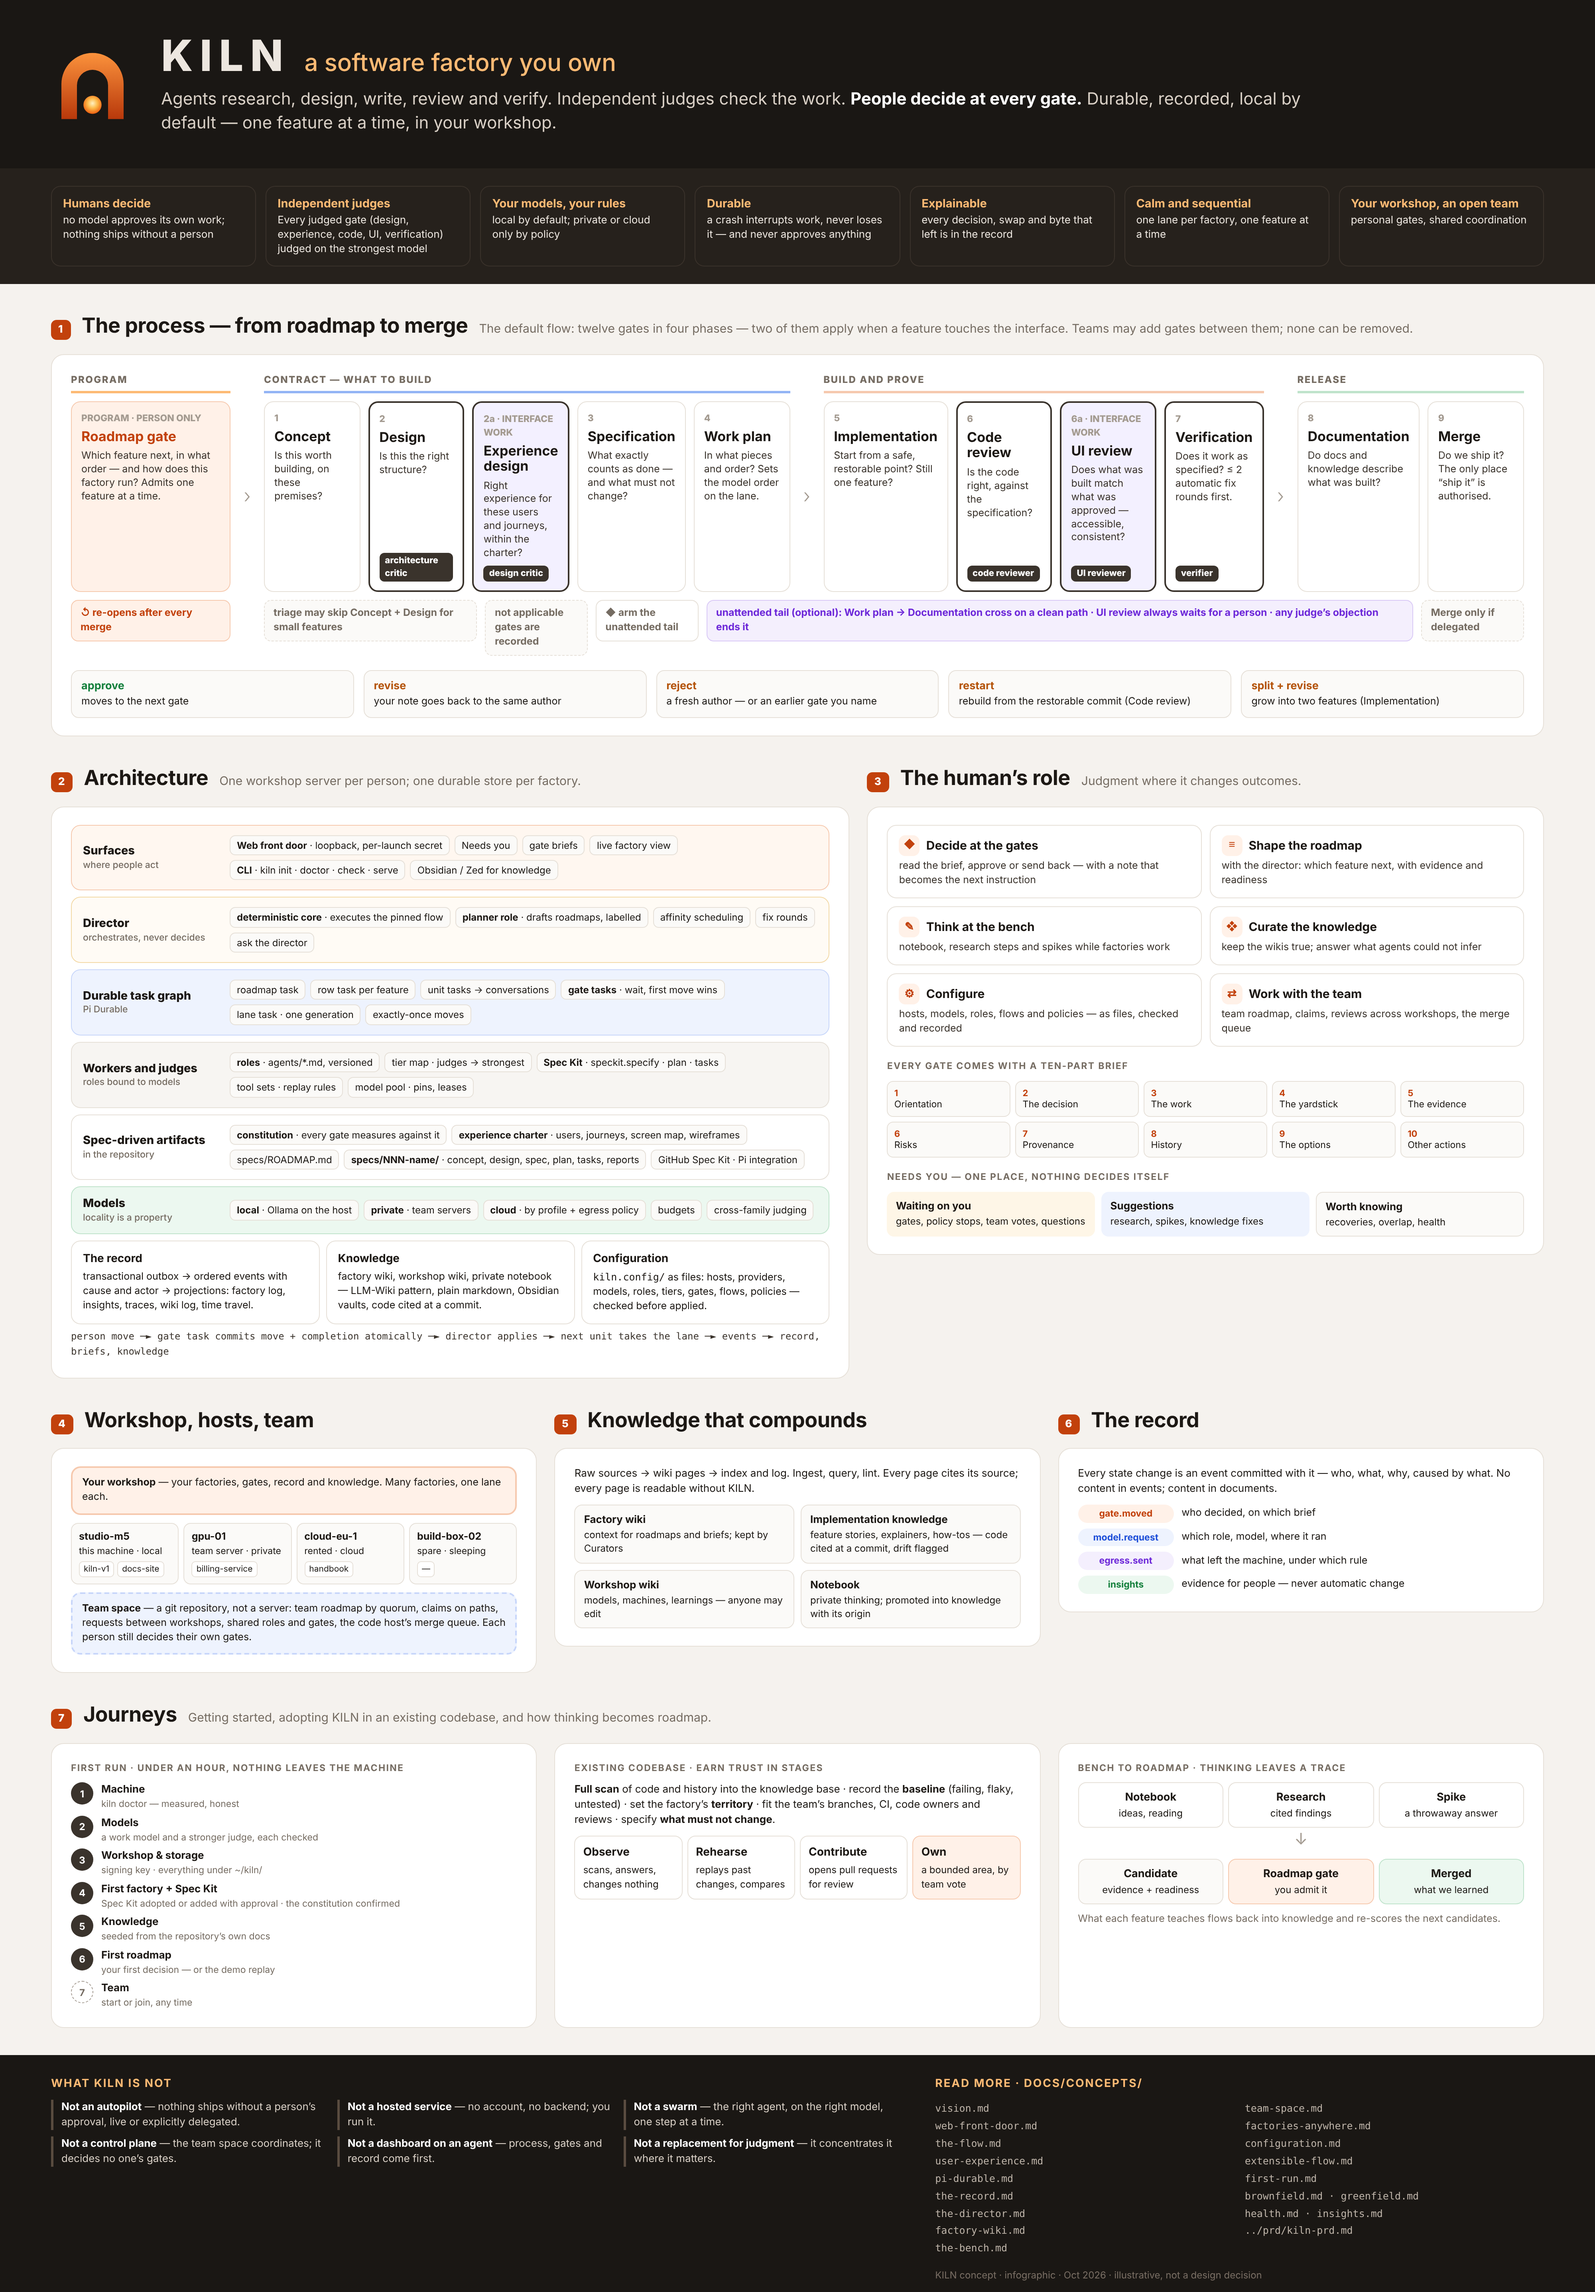
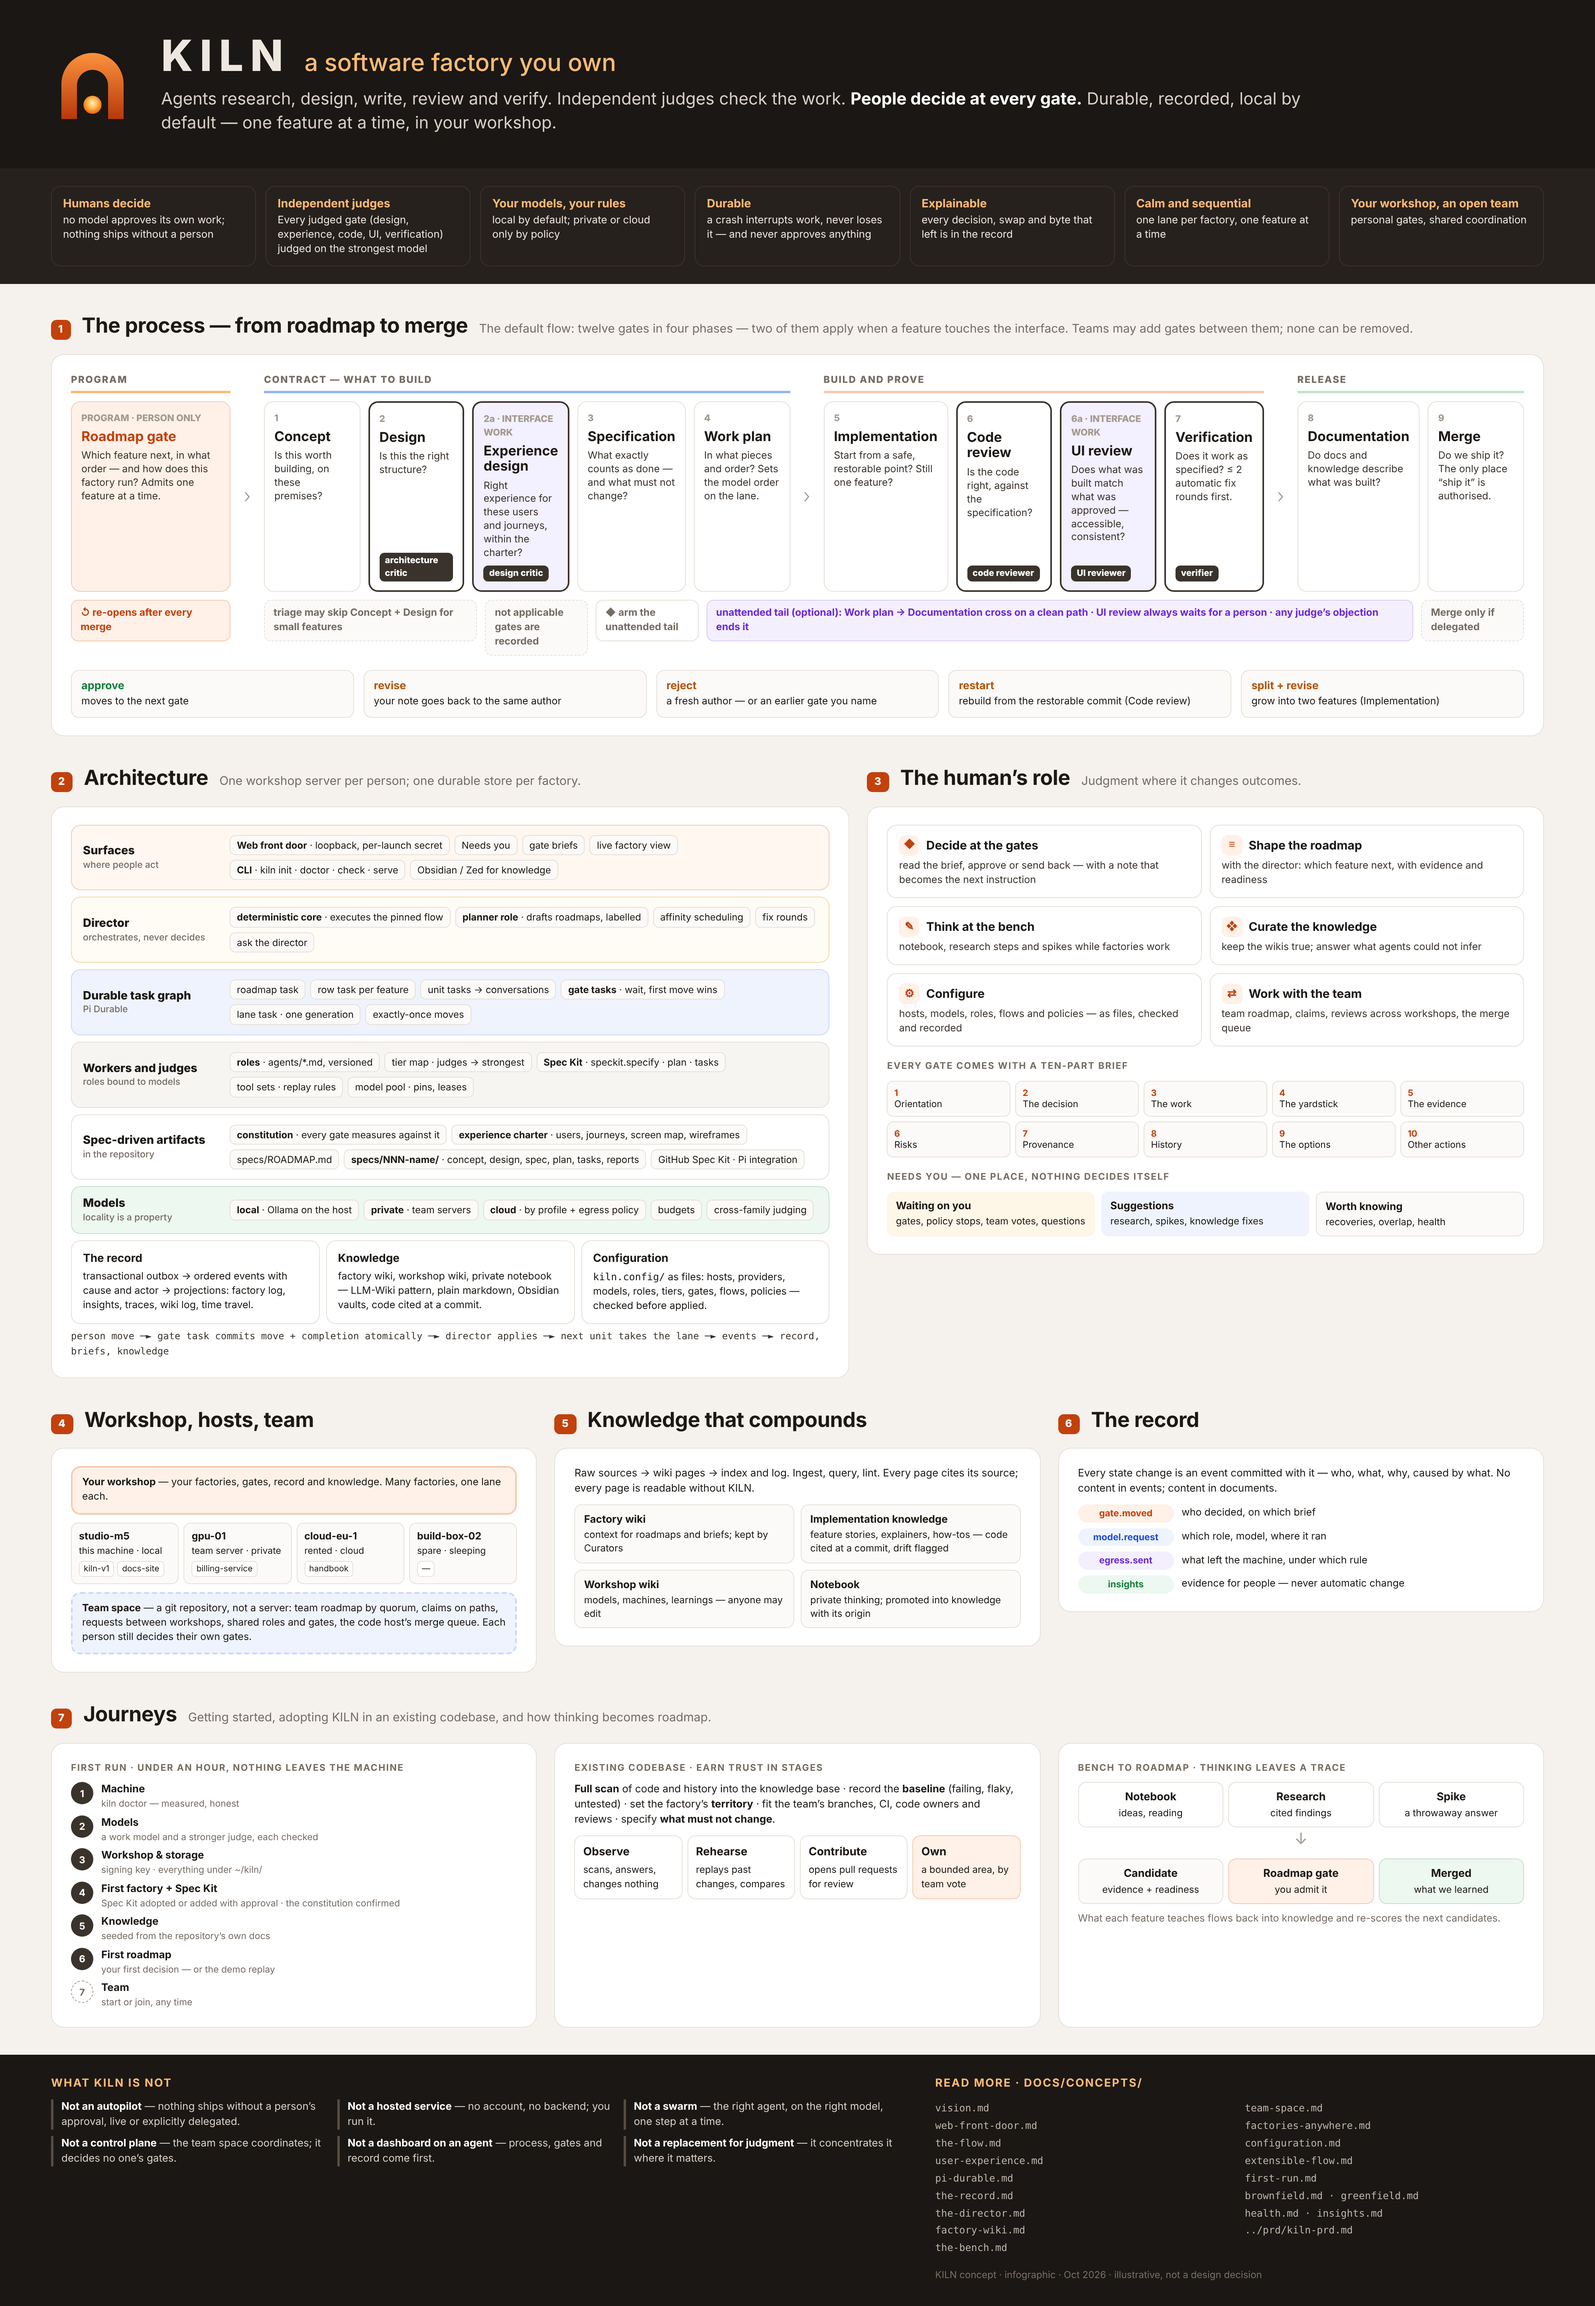
docs: re-export the at-a-glance poster at its full height
Claude-Session: https://claude.ai/code/session_01SEMZrA5RguzPuZJa4EMxUB

diff --git a/docs/concepts/infographic/README.md b/docs/concepts/infographic/README.md
@@ -10,11 +10,11 @@ existing codebase, bench to roadmap.
 
 Illustrative, not a design decision; the concept docs in `../` govern where they differ.
 
-Regenerate (4000 × 5746 px):
+Regenerate (4000 × 5782 px):
 
 ```sh
 cd src && "/Applications/Google Chrome.app/Contents/MacOS/Google Chrome" --headless=new --disable-gpu --hide-scrollbars \
-  --force-device-scale-factor=2 --window-size=2000,2873 --screenshot=../kiln-at-a-glance.png "file://$PWD/kiln-at-a-glance.html"
+  --force-device-scale-factor=2 --window-size=2000,2891 --screenshot=../kiln-at-a-glance.png "file://$PWD/kiln-at-a-glance.html"
 ```
 
 # The engineer at the center — infographic
